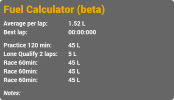
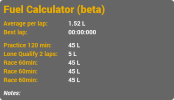
Fixed error when there's no fastest time yet in results

diff --git a/Overlays/benofficial2 - iRacing Fuel Calculator/JavascriptExtensions/FuelCalc.js b/Overlays/benofficial2 - iRacing Fuel Calculator/JavascriptExtensions/FuelCalc.js
@@ -134,17 +134,20 @@ function getBestLapTimeInClass()
     for (let sessionIdx = 0; sessionIdx < numSession; sessionIdx++)
     {
         const session = data["SessionInfo"]["Sessions"][sessionIdx];
-        const posCount = session["ResultsPositions"].length;
-        for (let posIdx = 0; posIdx < posCount; posIdx++)
+        if (session["ResultsPositions"] != null)
         {
-            // Must be in same class as player
-            const carIdx = session["ResultsPositions"][posIdx]["CarIdx"];
-            if (playerClassId == data["DriverInfo"]["Drivers"][carIdx]["CarClassID"])
+            const posCount = session["ResultsPositions"].length;
+            for (let posIdx = 0; posIdx < posCount; posIdx++)
             {
-                const timeSecs = Number(session["ResultsPositions"][posIdx]["FastestTime"]);
-                if (timeSecs > 0 && (timeSecs < fastestTime || fastestTime == 0))
+                // Must be in same class as player
+                const carIdx = session["ResultsPositions"][posIdx]["CarIdx"];
+                if (playerClassId == data["DriverInfo"]["Drivers"][carIdx]["CarClassID"])
                 {
-                    fastestTime = timeSecs;
+                    const timeSecs = Number(session["ResultsPositions"][posIdx]["FastestTime"]);
+                    if (timeSecs > 0 && (timeSecs < fastestTime || fastestTime == 0))
+                    {
+                        fastestTime = timeSecs;
+                    }
                 }
             }
         }
